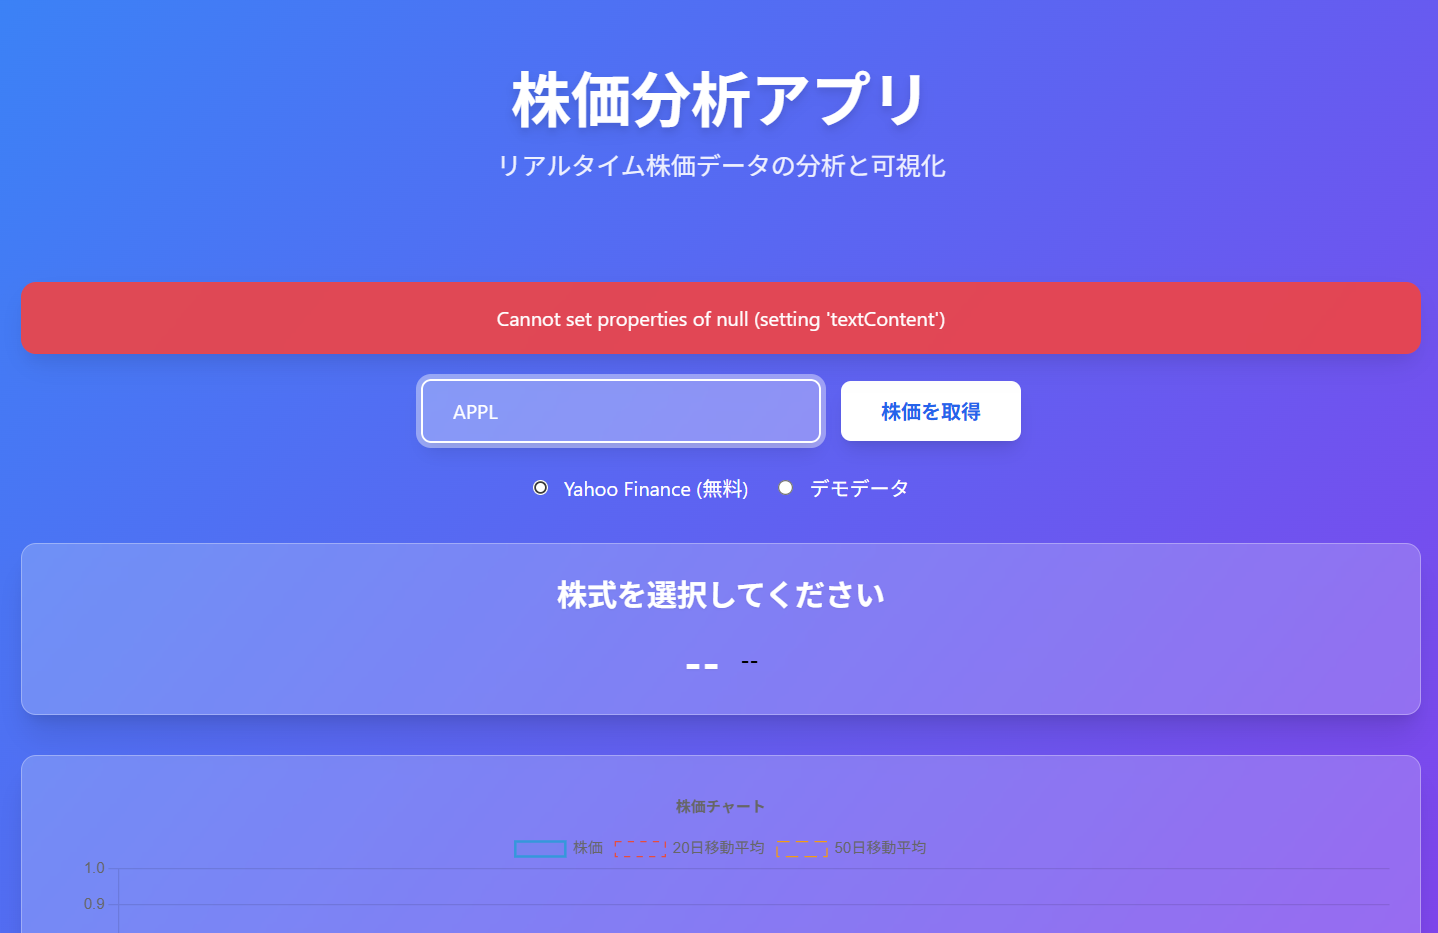
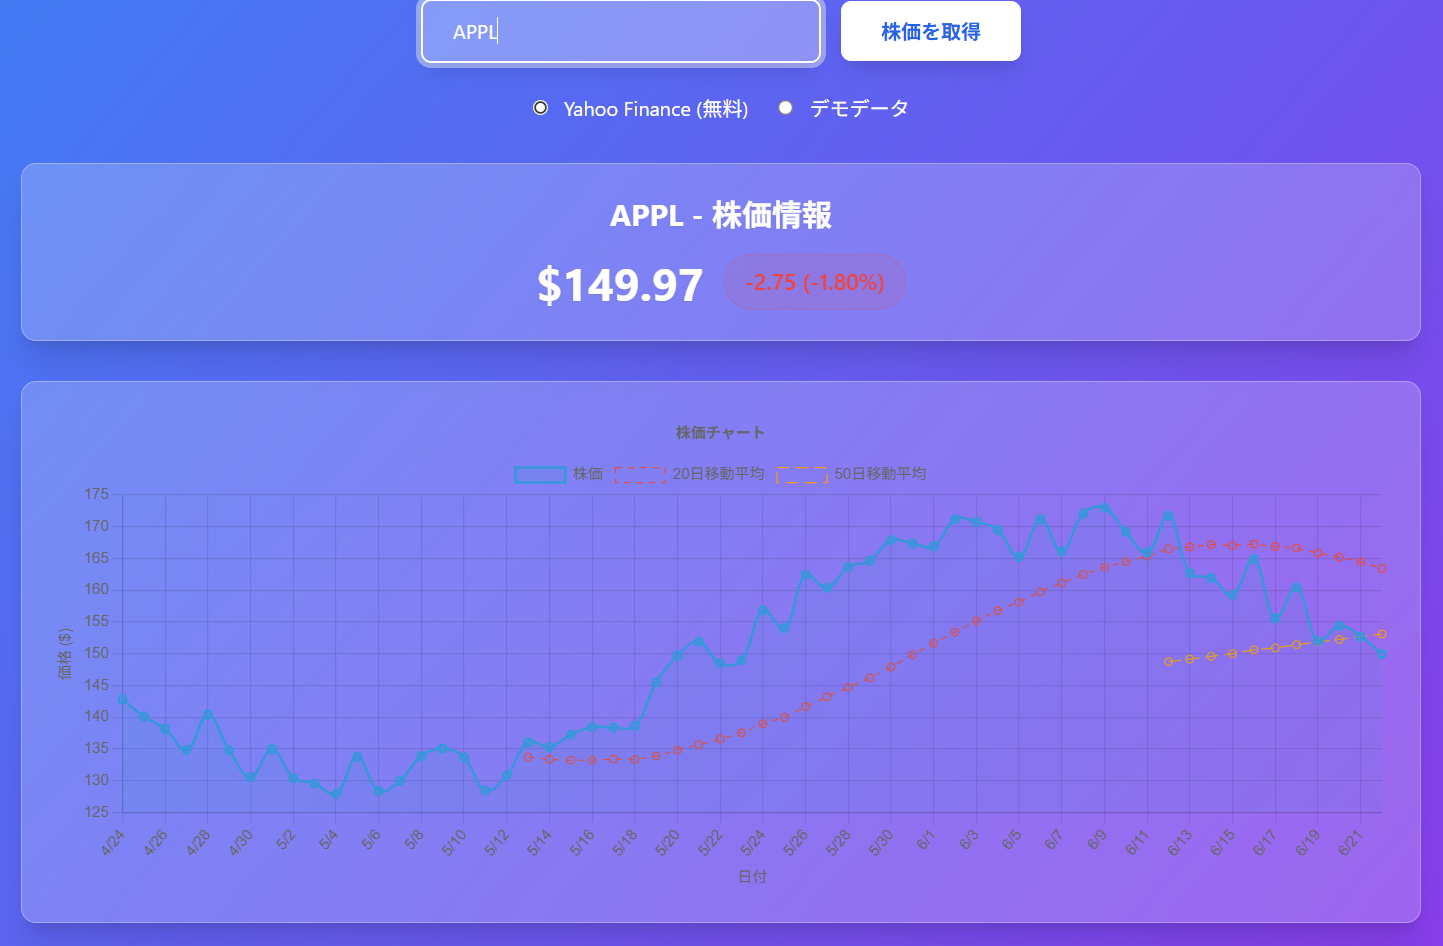
Dramatically improve chart visibility and aesthetics
- Change stock price line to white (#ffffff) with increased border width (3px)
- Update moving averages to high-contrast colors (amber #fbbf24, orange #f97316)
- Add white text for all chart labels, titles, and ticks
- Implement semi-transparent white grid lines for better readability
- Enhance tooltips with dark background and white text
- Add point styling with hover effects for better interaction
- Increase font sizes and weights for better visibility
- Limit x-axis ticks to prevent overcrowding

🤖 Generated with [Claude Code](https://claude.ai/code)

diff --git a/script.js b/script.js
@@ -44,40 +44,81 @@ class StockAnalyzer {
                     {
                         label: '株価',
                         data: [],
-                        borderColor: '#3498db',
-                        backgroundColor: 'rgba(52, 152, 219, 0.1)',
-                        borderWidth: 2,
+                        borderColor: '#ffffff',
+                        backgroundColor: 'rgba(255, 255, 255, 0.1)',
+                        borderWidth: 3,
                         fill: true,
                         tension: 0.4,
+                        pointBackgroundColor: '#ffffff',
+                        pointBorderColor: '#ffffff',
+                        pointBorderWidth: 2,
+                        pointRadius: 3,
+                        pointHoverRadius: 6,
                     },
                     {
                         label: '20日移動平均',
                         data: [],
-                        borderColor: '#e74c3c',
+                        borderColor: '#fbbf24',
                         backgroundColor: 'transparent',
-                        borderWidth: 1,
+                        borderWidth: 2,
                         borderDash: [5, 5],
+                        pointBackgroundColor: '#fbbf24',
+                        pointBorderColor: '#fbbf24',
+                        pointRadius: 2,
+                        pointHoverRadius: 4,
                     },
                     {
                         label: '50日移動平均',
                         data: [],
-                        borderColor: '#f39c12',
+                        borderColor: '#f97316',
                         backgroundColor: 'transparent',
-                        borderWidth: 1,
+                        borderWidth: 2,
                         borderDash: [10, 5],
+                        pointBackgroundColor: '#f97316',
+                        pointBorderColor: '#f97316',
+                        pointRadius: 2,
+                        pointHoverRadius: 4,
                     },
                 ],
             },
             options: {
                 responsive: true,
                 maintainAspectRatio: false,
+                interaction: {
+                    intersect: false,
+                    mode: 'index',
+                },
                 plugins: {
                     legend: {
                         position: 'top',
+                        labels: {
+                            color: '#ffffff',
+                            font: {
+                                size: 14,
+                                weight: 'bold',
+                            },
+                            usePointStyle: true,
+                            padding: 20,
+                        },
                     },
                     title: {
                         display: true,
                         text: '株価チャート',
+                        color: '#ffffff',
+                        font: {
+                            size: 18,
+                            weight: 'bold',
+                        },
+                        padding: 20,
+                    },
+                    tooltip: {
+                        backgroundColor: 'rgba(0, 0, 0, 0.8)',
+                        titleColor: '#ffffff',
+                        bodyColor: '#ffffff',
+                        borderColor: '#ffffff',
+                        borderWidth: 1,
+                        cornerRadius: 8,
+                        displayColors: true,
                     },
                 },
                 scales: {
@@ -86,12 +127,43 @@ class StockAnalyzer {
                         title: {
                             display: true,
                             text: '価格 ($)',
+                            color: '#ffffff',
+                            font: {
+                                size: 14,
+                                weight: 'bold',
+                            },
+                        },
+                        ticks: {
+                            color: '#ffffff',
+                            font: {
+                                size: 12,
+                            },
+                        },
+                        grid: {
+                            color: 'rgba(255, 255, 255, 0.2)',
+                            lineWidth: 1,
                         },
                     },
                     x: {
                         title: {
                             display: true,
                             text: '日付',
+                            color: '#ffffff',
+                            font: {
+                                size: 14,
+                                weight: 'bold',
+                            },
+                        },
+                        ticks: {
+                            color: '#ffffff',
+                            font: {
+                                size: 12,
+                            },
+                            maxTicksLimit: 10,
+                        },
+                        grid: {
+                            color: 'rgba(255, 255, 255, 0.2)',
+                            lineWidth: 1,
                         },
                     },
                 },
